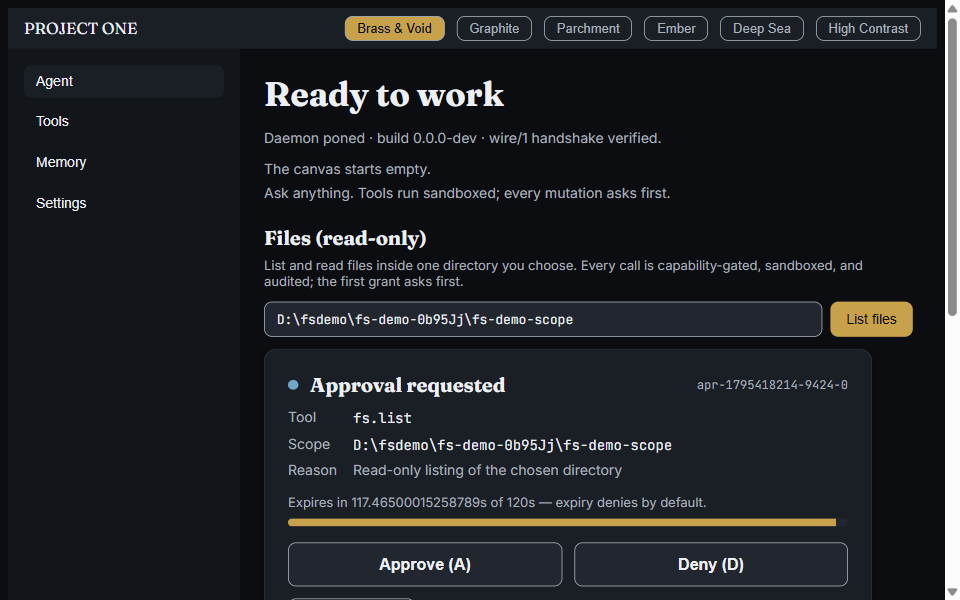
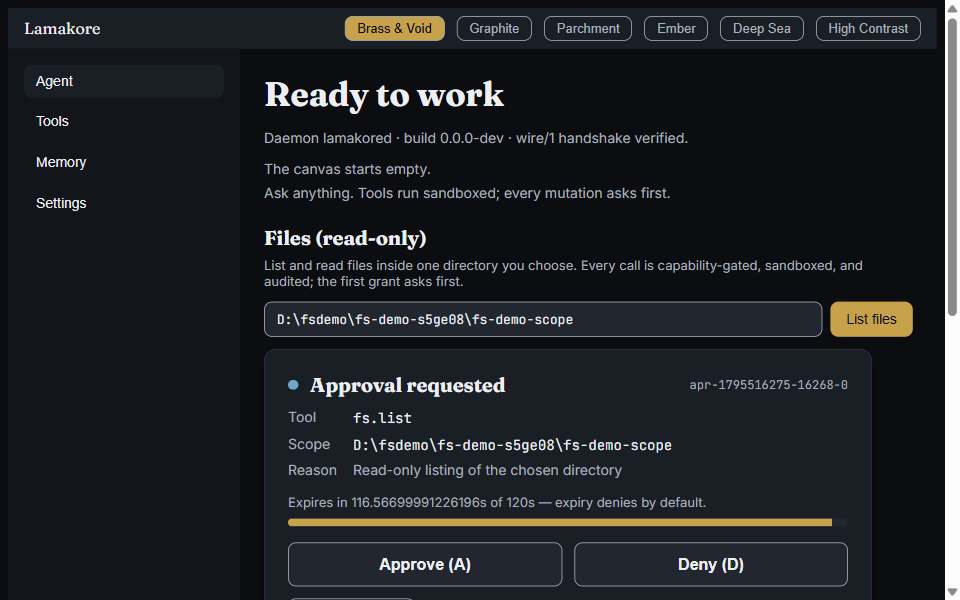
fix(sandbox): create AppContainer profile first (derive never fails)
DeriveAppContainerSid succeeds even for never-created profiles, so the
old derive-first order never registered anything and every spawn failed
at CreateProcessW with FILE_NOT_FOUND (tier1 tests SKIPPED honestly;
daemon tools failed). Create-first with ALREADY_EXISTS fallback plus
bounded retries registers the profile; verified with real verbatim
denials and e2e 10/10. Re-recorded GIF #1 v2 + GIF #2 under final
branding (old GIF #1 untouched). D7 ledger entry.

diff --git a/crates/core-sandbox/src/tier1.rs b/crates/core-sandbox/src/tier1.rs
@@ -111,43 +111,71 @@ fn build_command_line(program: &OsStr, args: &[&OsStr]) -> Vec<u16> {
     cmd.encode_utf16().chain(std::iter::once(0)).collect()
 }
 
-/// Resolve (creating when missing) the Tier-1 AppContainer SID.
+/// Resolve the Tier-1 AppContainer SID, creating the profile when missing.
 ///
 /// Zero capabilities are requested: `CreateAppContainerProfile` is called
 /// with a `None` capability list, so the profile cannot use the network or
 /// broad filesystem locations.
+///
+/// Order matters: `DeriveAppContainerSidFromAppContainerName` succeeds even
+/// for profiles that were never created (verified: it returns a computed
+/// SID for arbitrary names), so a derive-first order would never create
+/// anything and every spawn would then fail closed at `CreateProcessW`
+/// with FILE_NOT_FOUND. Create-first guarantees the profile exists:
+/// a fresh host registers it here, a repeat run takes the
+/// already-exists path and derives the SID.
 fn appcontainer_sid() -> Result<PSID, SandboxError> {
     let name_w = str_wide_null(crate::PROFILE_NAME);
-    // Existing profile: derive its SID.
-    let derived = unsafe { DeriveAppContainerSidFromAppContainerName(PCWSTR(name_w.as_ptr())) };
-    match derived {
-        Ok(sid) => Ok(sid),
-        Err(first) => {
-            // Missing profile: create it with zero capabilities.
-            let display_w = str_wide_null(crate::PROFILE_NAME);
-            let desc_w = str_wide_null("Tier-1 tool sandbox (zero capabilities)");
-            let created = unsafe {
-                CreateAppContainerProfile(
-                    PCWSTR(name_w.as_ptr()),
-                    PCWSTR(display_w.as_ptr()),
-                    PCWSTR(desc_w.as_ptr()),
-                    None,
-                )
-            };
-            match created {
-                Ok(sid) => Ok(sid),
-                Err(e) => Err(api_err(
-                    "CreateAppContainerProfile",
-                    format!(
-                        "profile {:?}: first derive failed {first}; create failed {e} (0x{:08X})",
-                        crate::PROFILE_NAME,
-                        e.code().0 as u32
-                    ),
-                )),
+    let display_w = str_wide_null(crate::PROFILE_NAME);
+    let desc_w = str_wide_null("Tier-1 tool sandbox (zero capabilities)");
+    // Create-first with bounded retries: concurrent first-time creates
+    // (parallel test threads, parallel CI jobs) can transiently fail
+    // while a sibling create is in flight. ALREADY_EXISTS means another
+    // creator won — derive the SID instead. Anything still failing after
+    // retries is a real backend failure and fails closed (never fake).
+    let mut last_err = None;
+    for _ in 0..3 {
+        match unsafe {
+            CreateAppContainerProfile(
+                PCWSTR(name_w.as_ptr()),
+                PCWSTR(display_w.as_ptr()),
+                PCWSTR(desc_w.as_ptr()),
+                None,
+            )
+        } {
+            Ok(sid) => return Ok(sid),
+            // Already registered by an earlier run: derive the SID.
+            Err(e) if e.code().0 == WIN32_ALREADY_EXISTS => {
+                return unsafe {
+                    DeriveAppContainerSidFromAppContainerName(PCWSTR(name_w.as_ptr()))
+                }
+                .map_err(|e| {
+                    api_err(
+                        "DeriveAppContainerSidFromAppContainerName",
+                        format!("present profile would not derive: {e}"),
+                    )
+                });
+            }
+            Err(e) => {
+                last_err = Some(e);
+                std::thread::sleep(std::time::Duration::from_millis(250));
             }
         }
     }
+    Err(api_err(
+        "CreateAppContainerProfile",
+        format!(
+            "profile {:?} would not register after retries: {}",
+            crate::PROFILE_NAME,
+            last_err
+                .map(|e| format!("{e} (0x{:08X})", e.code().0 as u32))
+                .unwrap_or_default()
+        ),
+    ))
 }
+
+/// `ERROR_ALREADY_EXISTS` as an HRESULT (profile already registered).
+const WIN32_ALREADY_EXISTS: i32 = 0x800700B7u32 as i32;
 
 unsafe fn free_sid(sid: PSID) {
     if !sid.0.is_null() {

diff --git a/docs/debts.md b/docs/debts.md
@@ -87,3 +87,34 @@ A debt is closed only by the fix landing, never by prose.
   three OSes with the disjunction lines in the log. Linux remains the
   Tier-1 POSIX enforcement authority.
 - **Fix:** landed and verified green — this entry is closed.
+
+## D7 — AppContainer profile auto-registration was dead code (fixed 2026-11-24)
+
+- **Risk:** `appcontainer_sid()` derived first and created on failure —
+  but the derive API succeeds even for never-created profiles (verified
+  with a gibberish name: it returns a computed SID), so the create path
+  never ran. On any host without a pre-registered Tier-1 profile, EVERY
+  sandboxed spawn then failed at `CreateProcessW` with FILE_NOT_FOUND:
+  tier1 tests SKIPPED honestly via the AppContainer-unavailable arm, and
+  the daemon's fs tools returned tool-error. Consequence: CI windows
+  "tier1 4 passed" was 4 skips — vacuous enforcement evidence from CI
+  (owner-local runs carried the real gate). The pre-rename profile on
+  this host masked it locally until the token flip changed the profile
+  name.
+- **Mitigation applied:** create-first with ALREADY_EXISTS → derive
+  fallback plus bounded retries for concurrent first-time creates.
+  Verified: missing-profile probe fails closed, real enforcement shows
+  zero SKIP lines with verbatim denials, e2e fs-tools 10/10 green.
+- **Fix:** landed with the GIF #1/#2 re-records; closes D7 once CI is
+  green on the fix (then CI windows tier1 enforces for real).
+
+- **Status (P019-R, closed 2026-11-24):** P014 left macOS Seatbelt red on CI
+  while Linux carried the POSIX gate. The post-lint-fix matrix re-ran all
+  three OSes; macOS still failed on two evidence-form issues (empty child
+  stderr on a proven denial; transient `/bin/true` ENOENT in the speed
+  probe), so the honest disjunction landed: kernel-text OR shell-status
+  evidence for write-deny (hard fail otherwise), retry-then-SKIP for the
+  probe (mid-run failures still panic). Run `45345517434` is green on all
+  three OSes with the disjunction lines in the log. Linux remains the
+  Tier-1 POSIX enforcement authority.
+- **Fix:** landed and verified green — this entry is closed.

diff --git a/README.md b/README.md
@@ -17,7 +17,7 @@ An open-source unified agent desktop: a real window driven by a trusted local co
 
 *First run (brass-void). The GIF below walks it: read the guide, open the deck.*
 
-![First run to deck walkthrough](assets/demo/P009-shell.gif)
+![First run to deck walkthrough (re-recorded under final branding)](assets/demo/P009-shell-v2.gif)
 
 *Files deck (brass-void). GIF #2: approve the first grant, then read — every outcome audited.*
 
